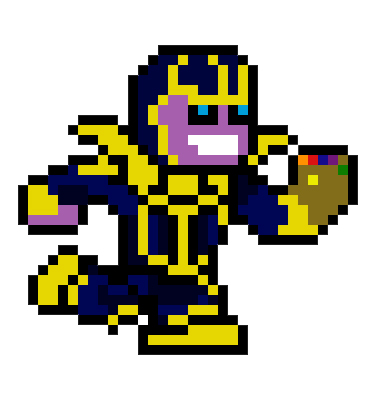
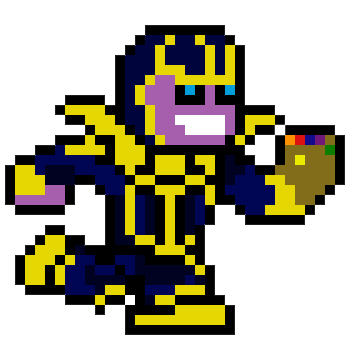
Fin inventaire

Changed region(s): [[0.0, 0.0611, 1.0, 0.9472]]

diff --git a/ThanosGame/menus/MenuInventaire.java b/ThanosGame/menus/MenuInventaire.java
@@ -67,14 +67,18 @@ public class MenuInventaire extends JFrame implements ActionListener {
         //Photo du personnage
         perso = new JLabel();
         perso.setIcon(new ImageIcon(getClass().getResource("images\\thanos.jpg")));
-        perso.setLocation(0, 0);
-        perso.setSize(getWidth(), getHeight());
+        perso.setLocation(0, 5);
+        perso.setSize(350, 310);
 
         //Cadre perso
+        int x1,y1;
+        x1=350;
+        y1=320;
         conteneurPerso = new JPanel();
         conteneurPerso.setLayout(null);
         conteneurPerso.add(perso);
-        conteneurPerso.setBounds(200, 200, 100, 125);
+        conteneurPerso.setBounds(75, getHeight()/2-y1/2, x1, y1);
+        conteneurPerso.setBackground(Color.white);
 
         //Fond
         fond = new JLabel();
